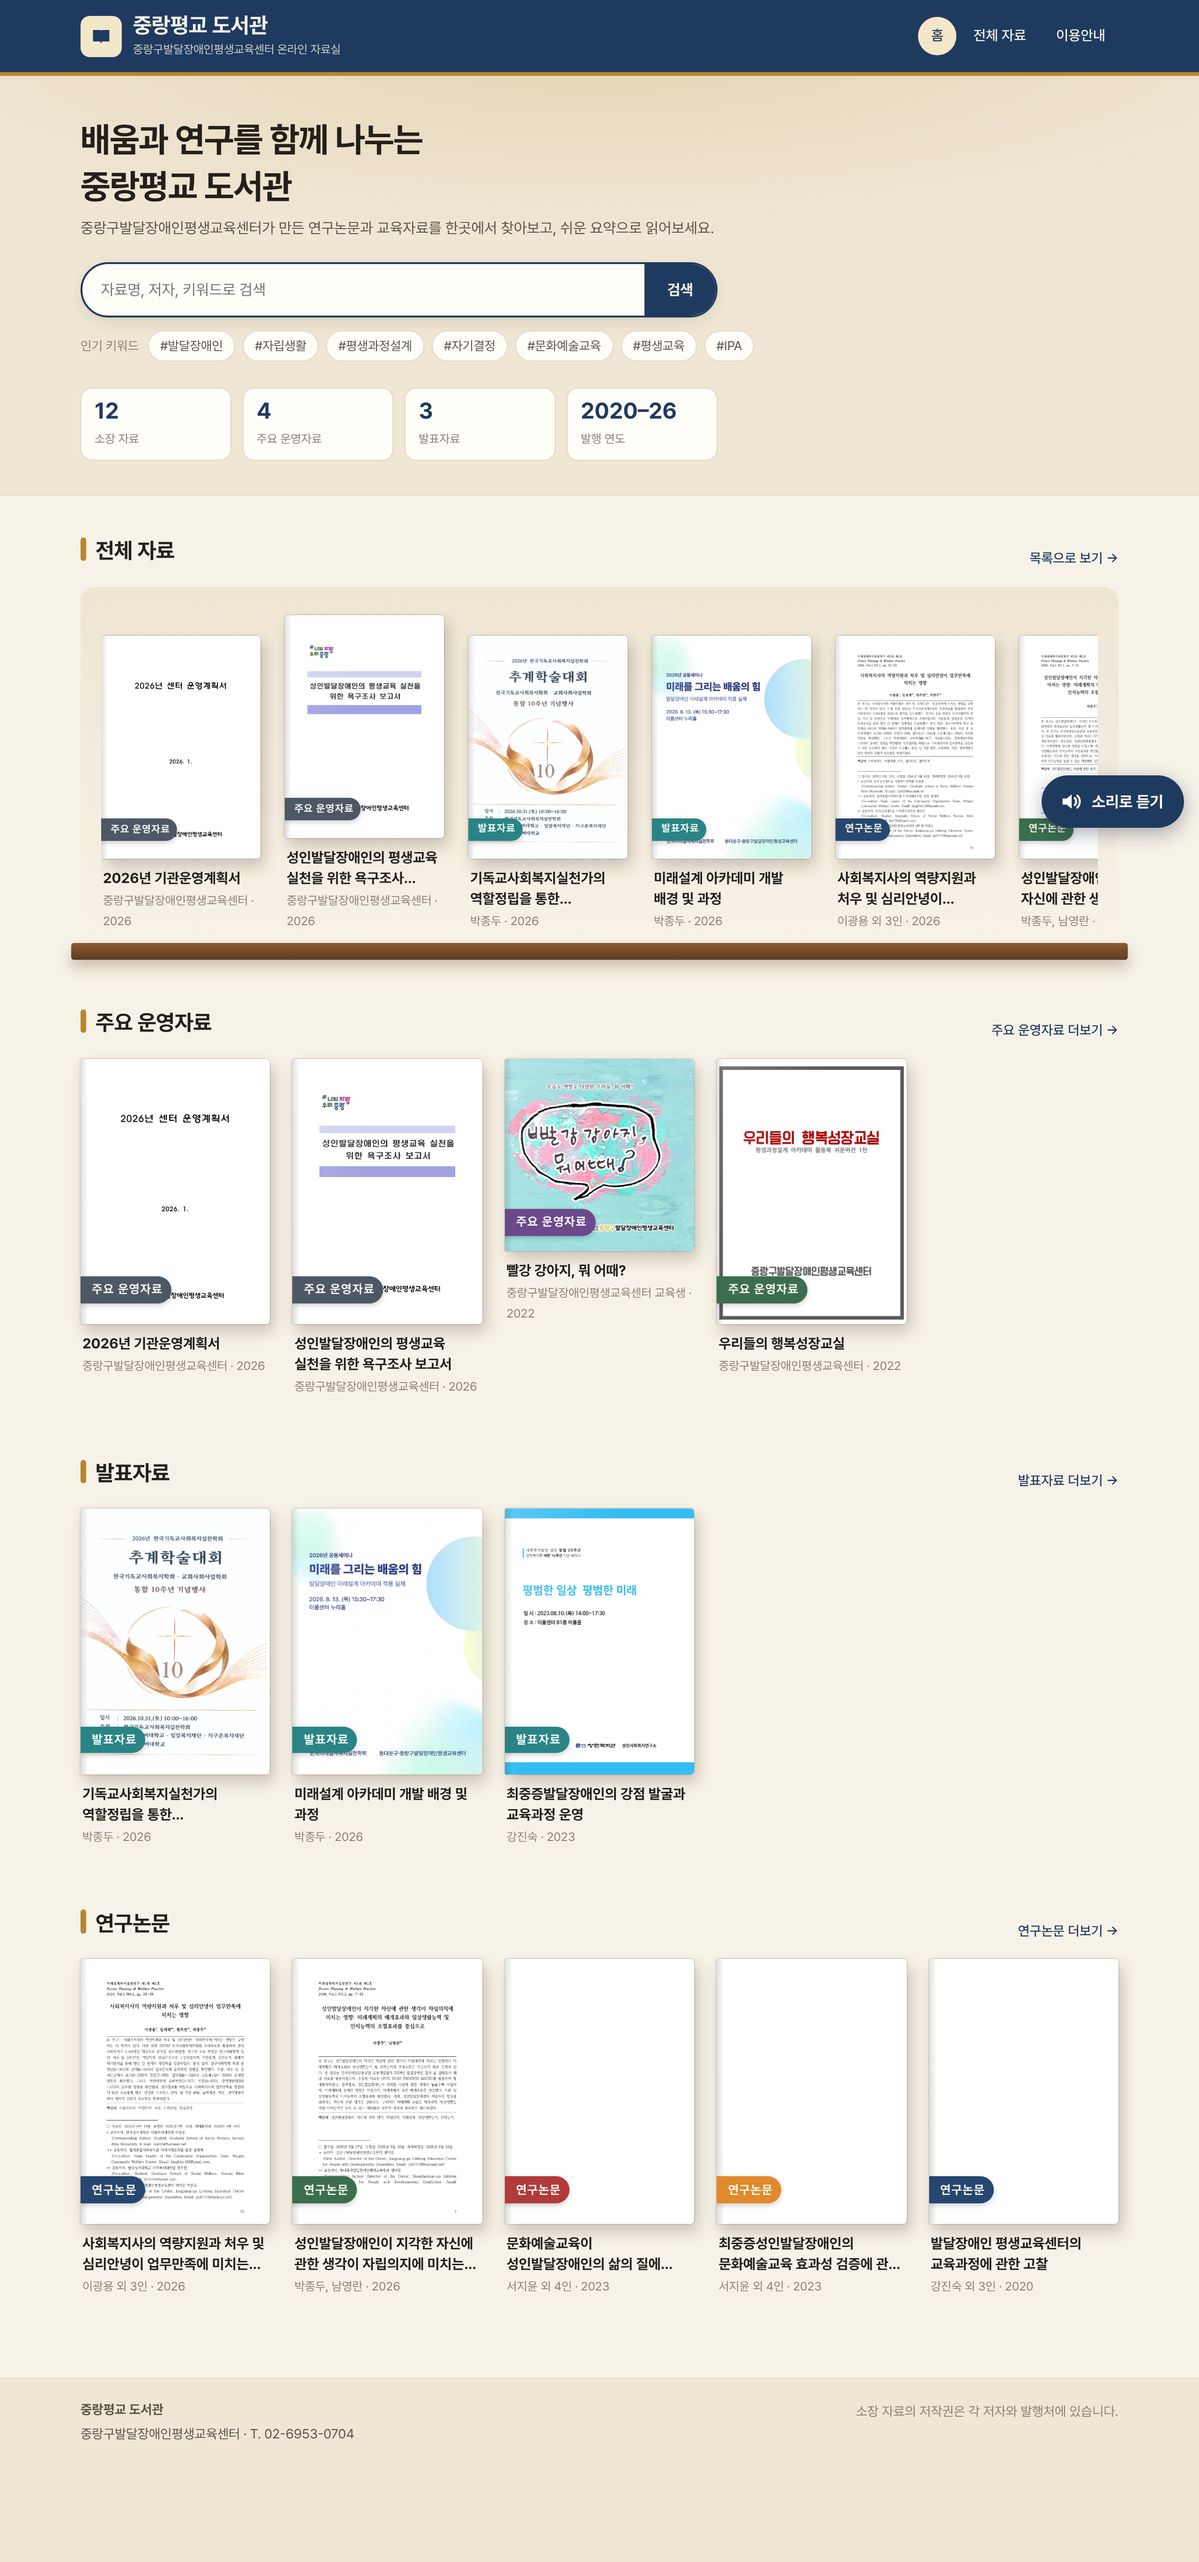
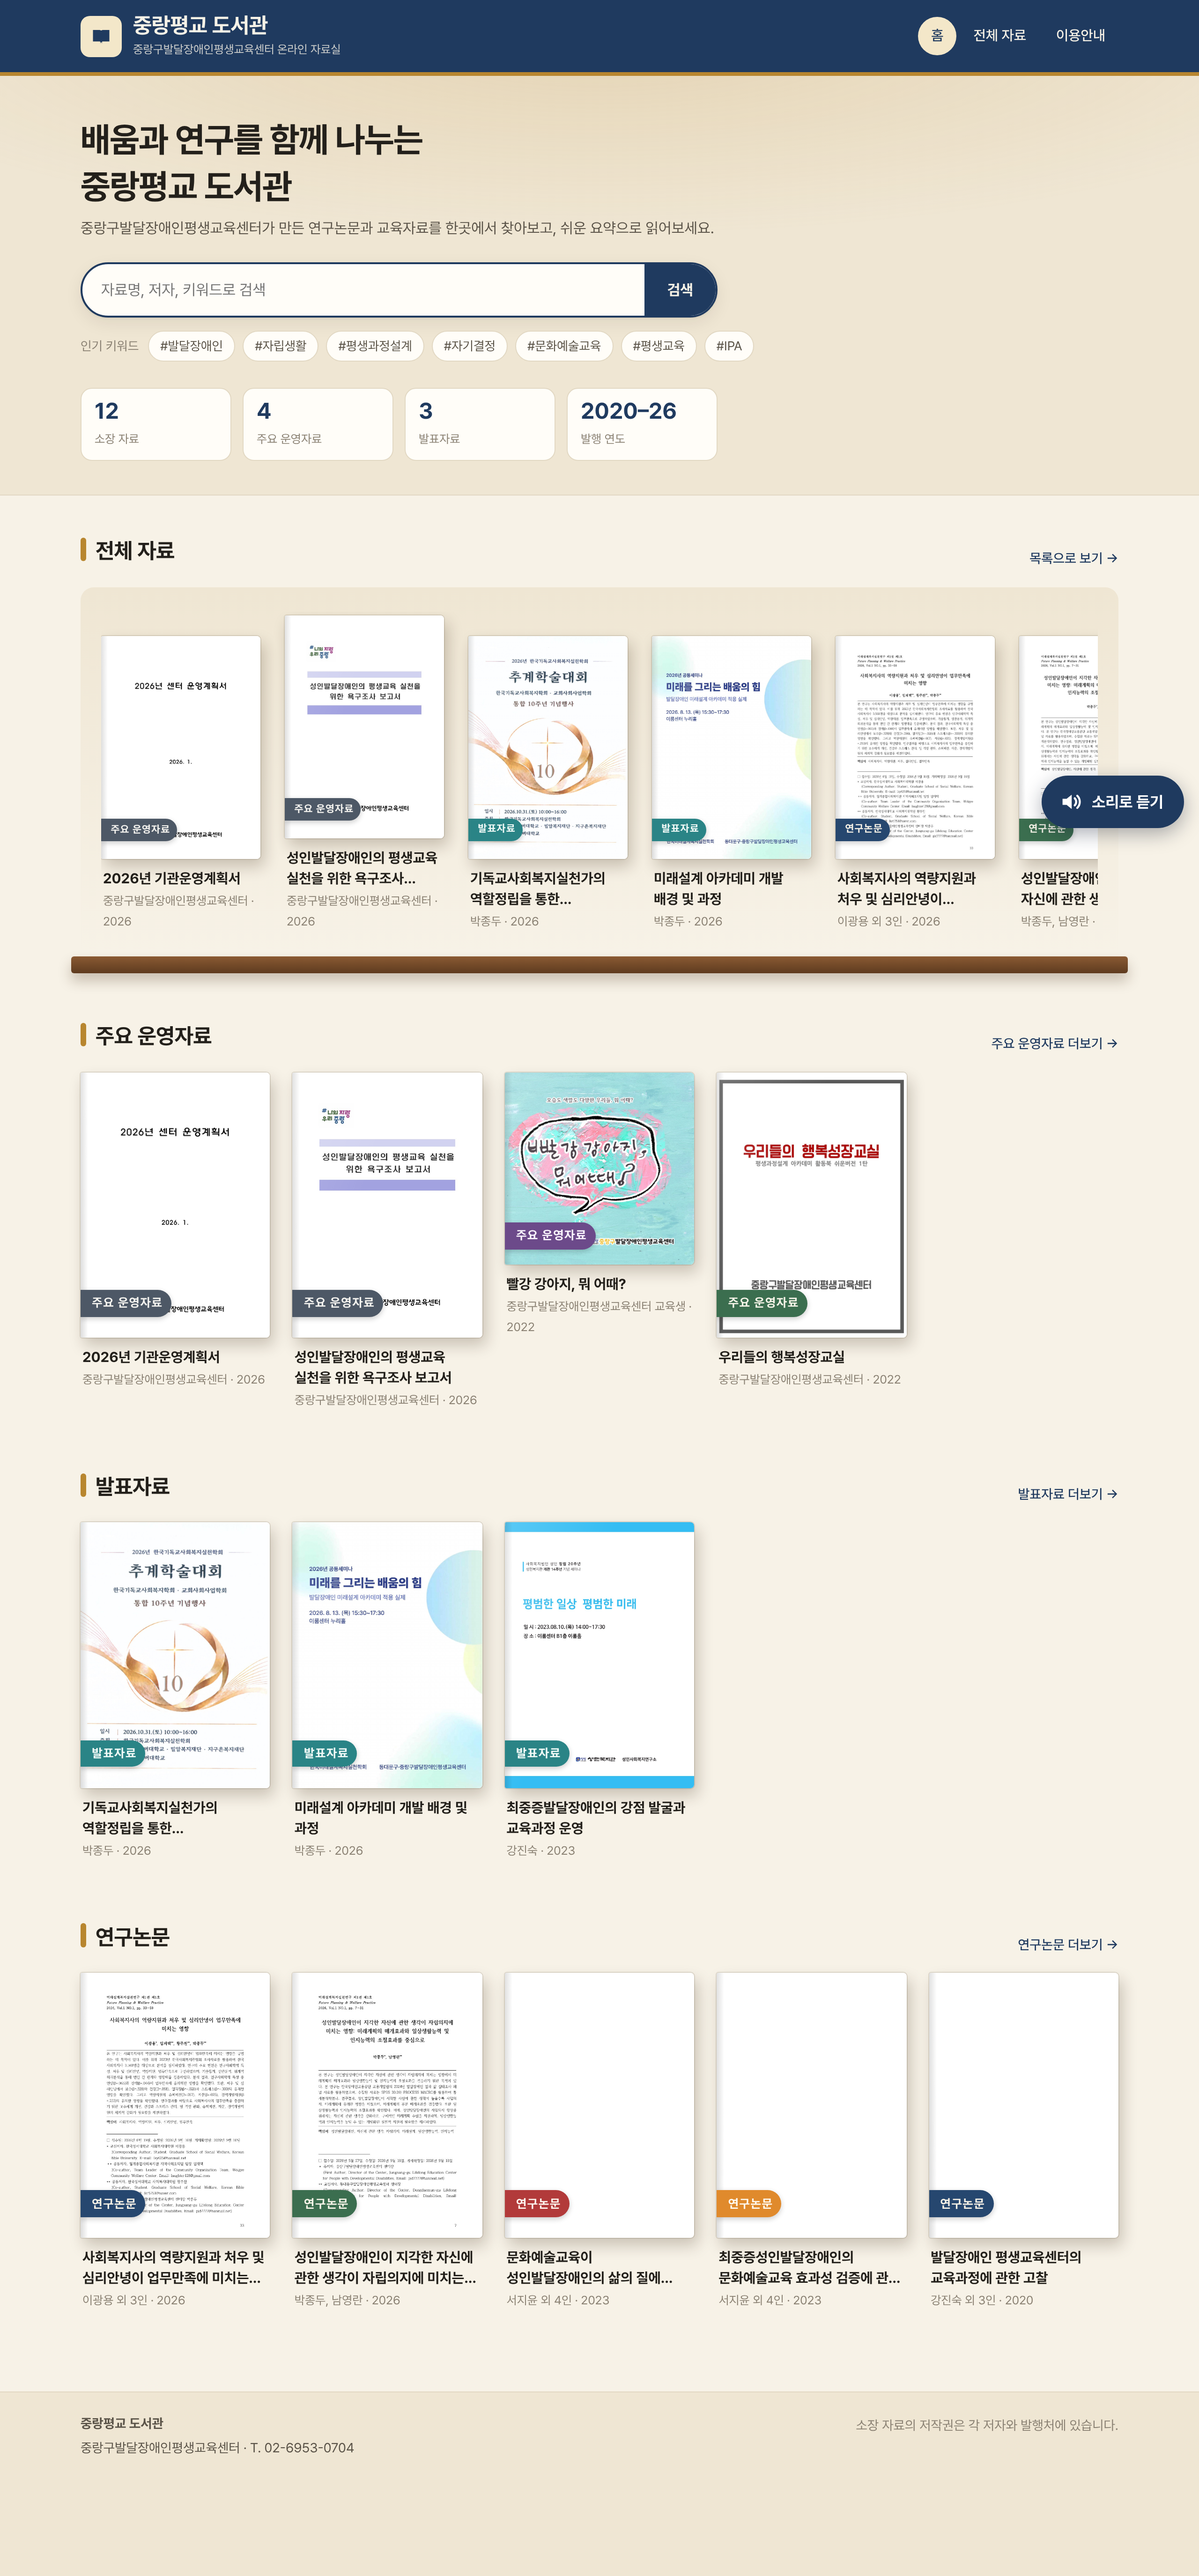
전체 자료 서가의 가로 슬라이드 바를 크고 밝게 변경
- 두께 8px → 18px(휴대폰 16px), 밝은 노란색 막대와 연노랑 바탕, 마우스를 올리면 더 밝게
- 파이어폭스는 색만 적용(두께는 브라우저 기본)

Claude-Session: https://claude.ai/code/session_017ot5WS4pG4jw3hhbpkp5C4

diff --git a/assets/style.css b/assets/style.css
@@ -104,9 +104,17 @@ main, main:focus, main:focus-visible { outline: none; min-height: 60vh; }
 
 /* ---------- bookshelf ---------- */
 .shelf { position: relative; padding: 26px 22px 0; background: linear-gradient(var(--paper-2), var(--paper)); border-radius: var(--radius) var(--radius) 0 0; }
-.shelf__row { display: flex; gap: 26px; overflow-x: auto; padding: 4px 4px 0; scroll-snap-type: x mandatory; align-items: flex-end; }
-.shelf__row::-webkit-scrollbar { height: 8px; }
-.shelf__row::-webkit-scrollbar-thumb { background: var(--line); border-radius: 4px; }
+.shelf__row { display: flex; gap: 26px; overflow-x: auto; padding: 4px 4px 14px; scroll-snap-type: x mandatory; align-items: flex-end; }
+/* 옆으로 넘기는 슬라이드 바 — 크고 밝게 (크롬·엣지·안드로이드) */
+.shelf__row::-webkit-scrollbar { height: 18px; }
+.shelf__row::-webkit-scrollbar-track { background: #fff3c4; border: 1px solid #f2d27a; border-radius: 999px; margin: 0 4px; }
+.shelf__row::-webkit-scrollbar-thumb { background: #f2b400; border: 3px solid #fff3c4; border-radius: 999px; min-width: 60px; }
+.shelf__row::-webkit-scrollbar-thumb:hover { background: #ffc61a; }
+.shelf__row::-webkit-scrollbar-thumb:active { background: #e0a500; }
+/* 파이어폭스 (두께는 브라우저 기본값) */
+@supports (-moz-appearance: none) {
+  .shelf__row { scrollbar-color: #f2b400 #fff3c4; scrollbar-width: auto; }
+}
 .shelf__board { height: 18px; background: linear-gradient(var(--wood), var(--wood-dark)); border-radius: 3px; box-shadow: 0 8px 14px rgba(60,35,10,.25); margin: 0 -10px; position: relative; z-index: 1; }
 .shelf .book { flex: 0 0 170px; scroll-snap-align: start; margin-bottom: -1px; }
 
@@ -298,6 +306,7 @@ main, main:focus, main:focus-visible { outline: none; min-height: 60vh; }
   .grid { grid-template-columns: repeat(2, minmax(0, 1fr)); gap: 22px 16px; }
   .shelf { padding: 20px 12px 0; }
   .shelf .book { flex-basis: 140px; }
+  .shelf__row::-webkit-scrollbar { height: 16px; }
   .panel { padding: 18px 16px; }
   .toolbar input[type="search"] { min-width: 0; flex: 1 1 100%; }
   .biblio th { width: 78px; padding: 8px 10px; }
